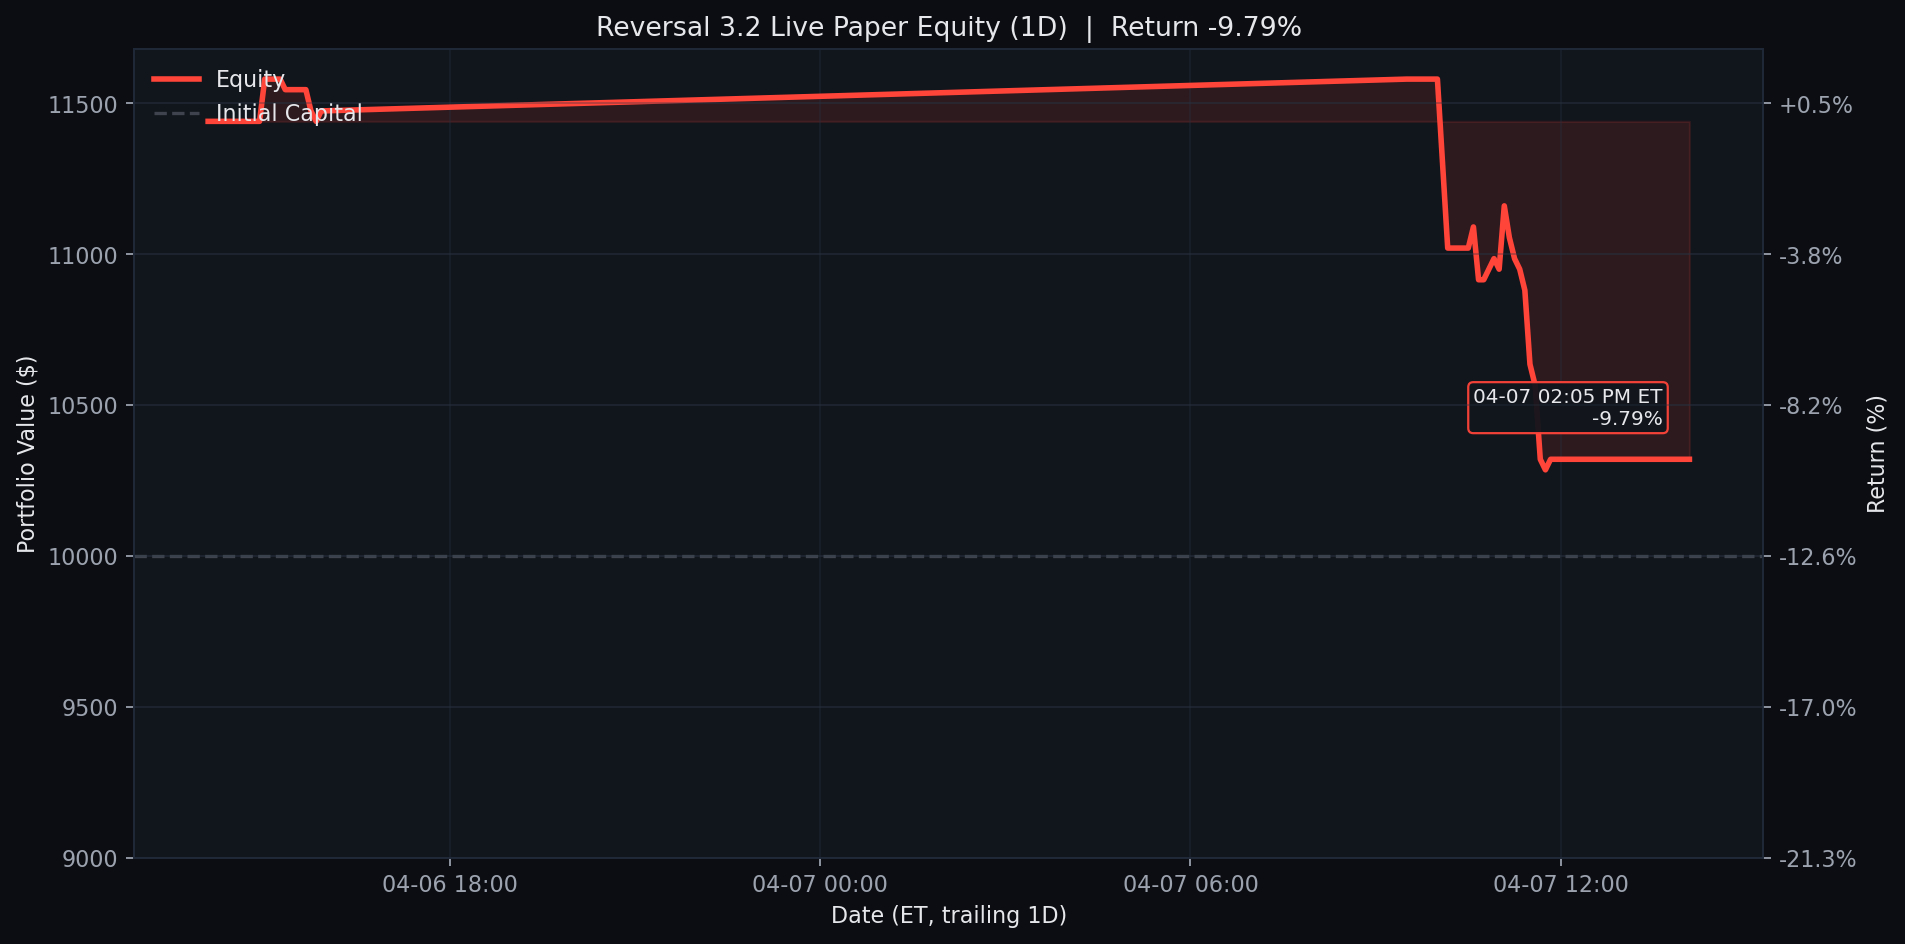
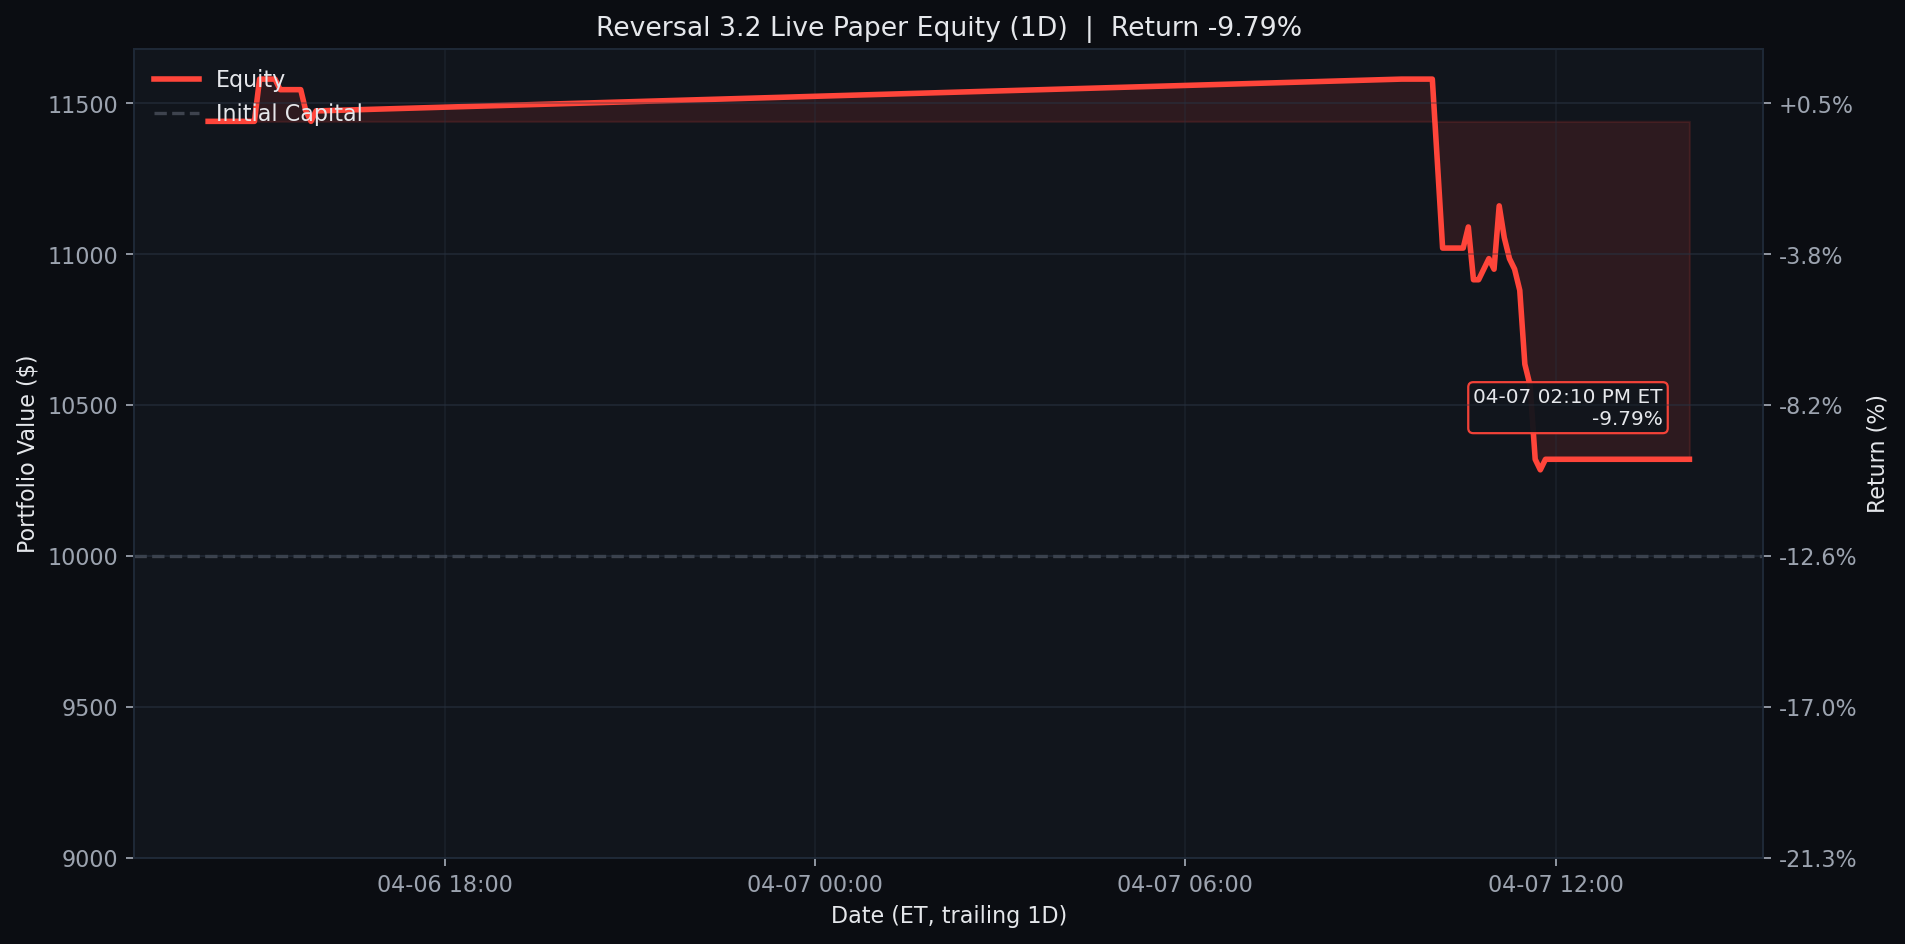
Update Reversal 3.2 live paper test 2026-04-07 14:10 ET

diff --git a/results/reversal_3_2_live/README.md b/results/reversal_3_2_live/README.md
@@ -1,6 +1,6 @@
 # Reversal 3.2 Live Paper Test
 
-Last updated (ET): `2026-04-07 14:05:03 EDT`
+Last updated (ET): `2026-04-07 14:10:00 EDT`
 Last processed slot: `manage_1400`
 
 ## Active Configuration
@@ -40,24 +40,25 @@ ticker    contract_symbol entry_trade_date_et exit_trade_date_et  entry_option_p
 
 ```text
 ticker  success_rate_%  matched_signals  current_drop_%  target_rebound_$  target_price  rolling_sigma_20d_%  call_candidate
-  MRVL           97.56               41            0.66              0.50        109.29                70.84            True
-  NVDA           93.10               29            1.00              1.24        177.11                33.70            True
-  COST           92.86               14            1.03              7.32       1015.41                13.04            True
-  CDNS           91.11               45            0.62              1.22        278.87                25.26            True
-  UPRO           90.62               32            1.15              0.81        100.39                53.86            True
-   LIN           90.00               10            1.45              5.06        497.30                19.02            True
-  PCAR           89.19               37            0.68              0.57        118.08                21.97            True
-  ORLY           88.57               35            0.74              0.48         91.93                23.11            True
-  ASML           88.57               35            0.68              6.19       1301.36                47.16            True
-  ABNB           88.46               26            1.57              1.40        126.21                36.80            True
-   KDP           88.24               17            0.70              0.13         25.65                20.32            True
-  VRTX           87.50               40            0.62              1.89        433.49                40.01            True
+  MRVL           97.22               36            0.98              0.75        109.19                70.84            True
+  NVDA           92.59               27            1.08              1.34        177.06                33.70            True
+  COST           92.31               13            1.12              7.95       1015.14                13.04            True
+  UPRO           90.32               31            1.29              0.91        100.35                53.86            True
+   LIN           90.00               10            1.44              5.03        497.31                19.02            True
+   CSX           89.66               29            0.52              0.15         41.42                24.91            True
+  CDNS           89.13               46            0.58              1.14        278.90                25.26            True
+  PCAR           88.89               36            0.80              0.66        118.04                21.97            True
+  ORLY           88.57               35            0.69              0.45         91.94                23.11            True
+   KDP           88.24               17            0.72              0.13         25.64                20.32            True
+  ABNB           88.00               25            1.59              1.41        126.21                36.80            True
+  VRTX           87.80               41            0.60              1.83        433.52                40.01            True
 ```
 
 ## Recent Events
 
 ```text
                     timestamp_et        slot   event_type                          detail
+2026-04-07T14:10:00.879771-04:00 manage_1400 slot_skipped {"reason": "already_processed"}
 2026-04-07T14:05:03.892395-04:00 manage_1400 slot_skipped {"reason": "already_processed"}
 2026-04-07T14:00:04.896209-04:00 manage_1400 slot_skipped {"reason": "already_processed"}
 2026-04-07T13:55:00.552170-04:00 manage_1400 slot_skipped {"reason": "already_processed"}
@@ -67,7 +68,6 @@ ticker  success_rate_%  matched_signals  current_drop_%  target_rebound_$  targe
 2026-04-07T13:25:05.882654-04:00 manage_1330 slot_skipped {"reason": "already_processed"}
 2026-04-07T13:10:04.926634-04:00 manage_1300 slot_skipped {"reason": "already_processed"}
 2026-04-07T13:05:02.889424-04:00 manage_1300 slot_skipped {"reason": "already_processed"}
-2026-04-07T13:00:02.895617-04:00 manage_1300 slot_skipped {"reason": "already_processed"}
 ```
 
 ## Equity Curves
@@ -77,20 +77,20 @@ Each chart is generated from the same live equity series with no-lookahead marks
 <details>
 <summary><strong>1D</strong></summary>
 
-![Reversal 3.2 Live Equity 1D](../../assets/reversal_3_2_live_equity_1d.png?v=20260407140503)
+![Reversal 3.2 Live Equity 1D](../../assets/reversal_3_2_live_equity_1d.png?v=20260407141000)
 
 </details>
 
 <details open>
 <summary><strong>1W</strong></summary>
 
-![Reversal 3.2 Live Equity 1W](../../assets/reversal_3_2_live_equity.png?v=20260407140503)
+![Reversal 3.2 Live Equity 1W](../../assets/reversal_3_2_live_equity.png?v=20260407141000)
 
 </details>
 
 <details>
 <summary><strong>1M</strong></summary>
 
-![Reversal 3.2 Live Equity 1M](../../assets/reversal_3_2_live_equity_1m.png?v=20260407140503)
+![Reversal 3.2 Live Equity 1M](../../assets/reversal_3_2_live_equity_1m.png?v=20260407141000)
 
 </details>

diff --git a/README.md b/README.md
@@ -3,7 +3,7 @@
 <!-- reversal-3.2-live:start -->
 ## Reversal 3.2 Live Paper Test
 
-- Last updated (ET): `2026-04-07 14:05:03 EDT`
+- Last updated (ET): `2026-04-07 14:10:00 EDT`
 - Equity: `$10,320.00` | Realized: `$320.00` | Unrealized: `$0.00` | Open positions: `0`
 - Today closed trades: `1`
 - Current slot: `manage_1400`
@@ -17,21 +17,21 @@ _None_
 <details>
 <summary><strong>1D</strong></summary>
 
-![Reversal 3.2 Live Equity 1D](assets/reversal_3_2_live_equity_1d.png?v=20260407140503)
+![Reversal 3.2 Live Equity 1D](assets/reversal_3_2_live_equity_1d.png?v=20260407141000)
 
 </details>
 
 <details open>
 <summary><strong>1W</strong></summary>
 
-![Reversal 3.2 Live Equity 1W](assets/reversal_3_2_live_equity.png?v=20260407140503)
+![Reversal 3.2 Live Equity 1W](assets/reversal_3_2_live_equity.png?v=20260407141000)
 
 </details>
 
 <details>
 <summary><strong>1M</strong></summary>
 
-![Reversal 3.2 Live Equity 1M](assets/reversal_3_2_live_equity_1m.png?v=20260407140503)
+![Reversal 3.2 Live Equity 1M](assets/reversal_3_2_live_equity_1m.png?v=20260407141000)
 
 </details>
 
